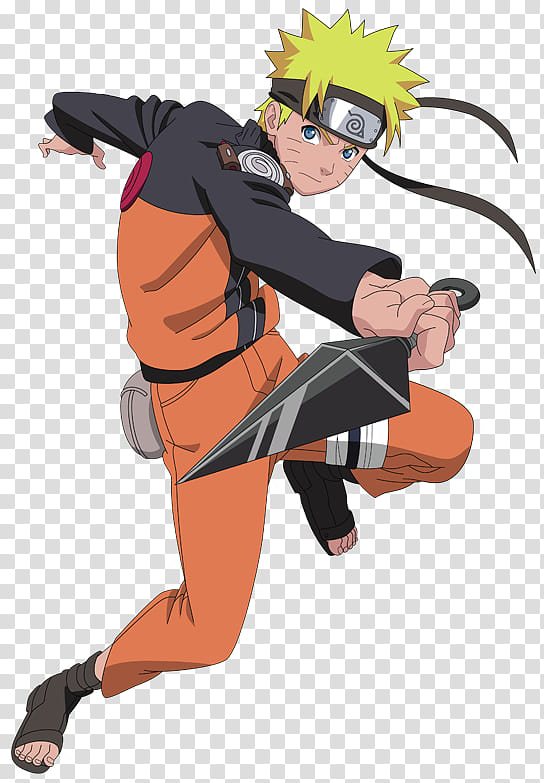
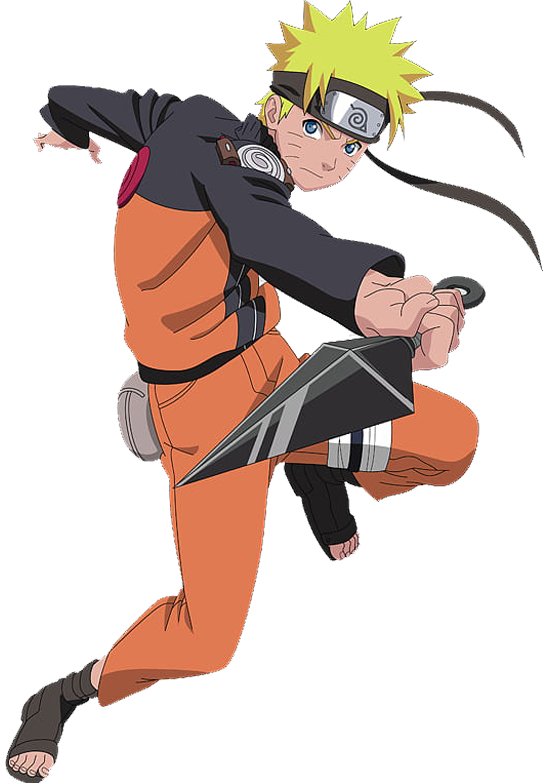
fix size

diff --git a/src/components/Hero.js b/src/components/Hero.js
@@ -4,10 +4,13 @@ import HeroImage from '../img/naruto.png'
 
 const StyledHero = styled.img`
   background-image: url(${HeroImage});
-  background-size: 100%;
+  background-size: contain;
   background-repeat: no-repeat;
   width: 200px;
   height: 400px;
+  position: absolute;
+  left: 20px;
+  bottom: 20px;
 `
 
 export default function Hero() {

diff --git a/src/App.js b/src/App.js
@@ -6,9 +6,11 @@ import StyledGlobal from './styles/globalStyles';
 import Hero from './components/Hero';
 
 const StyledApp = styled.div`
+  position: relative;
   background-image: url(${leaf});
   height: 100%;
-  background-size: 100%;
+  background-size: 110%;
+  background-repeat: no-repeat;
 `
 
 function App() {
